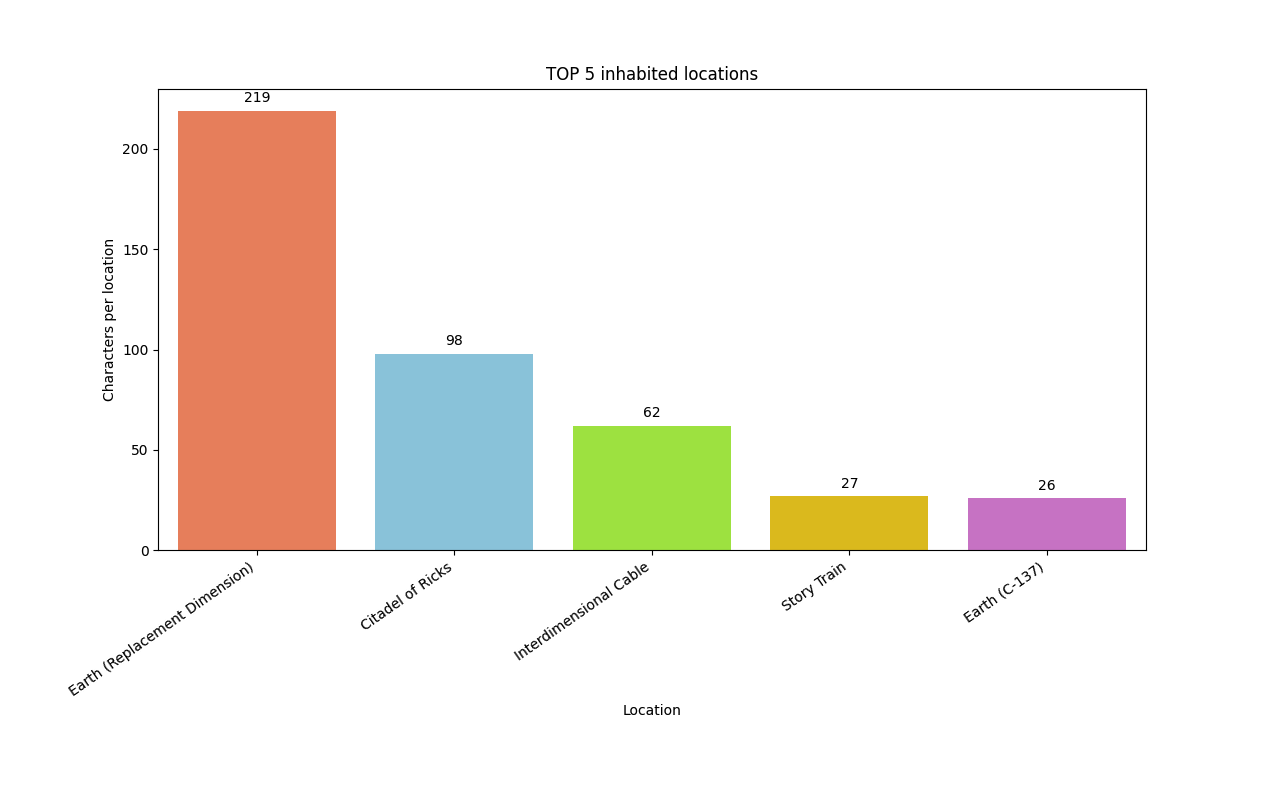
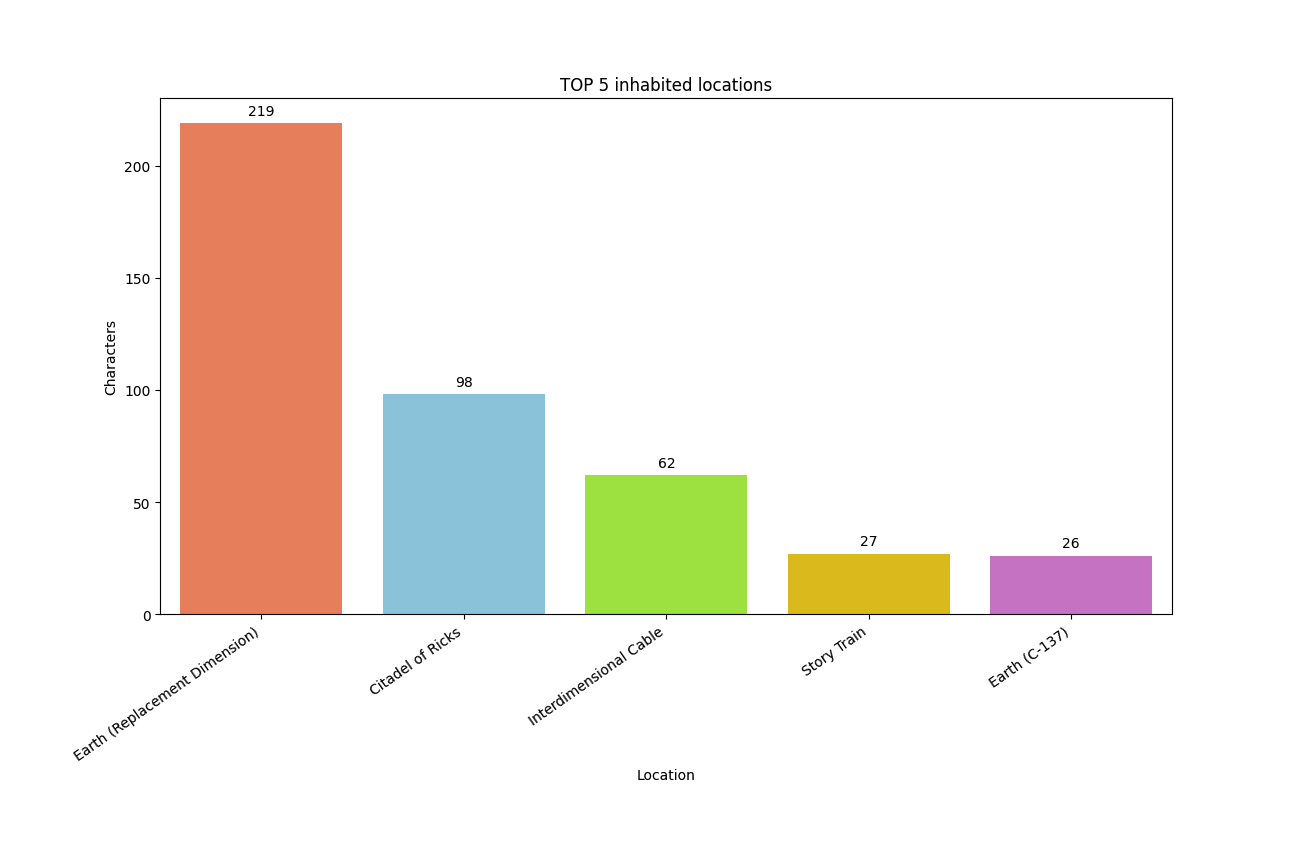
fix naming in visuals

diff --git a/scripts/DataOperations.py b/scripts/DataOperations.py
@@ -76,8 +76,8 @@ class DataOperations:
             .unique()
             .with_columns(pl.col('location').alias('Location'))
             .group_by('Location')
-            .agg(pl.count('name').alias('Characters per location'))
-            .sort('Characters per location', descending=True)
+            .agg(pl.count('name').alias('Characters'))
+            .sort('Characters', descending=True)
             .limit(5)
         )
 
@@ -99,7 +99,6 @@ class DataOperations:
         return (
             episodes
             .select(['episode', 'air_date'])
-            .unique()
             .with_columns(
                 pl.col('air_date')
                 .str.extract(r', (\d{4})', 1)
@@ -121,7 +120,6 @@ class DataOperations:
                            legend=False,
                            data=data,
                            palette=rick_and_morty_palette)
-
 
         for p in plot.patches:
             plot.annotate(format(p.get_height(), '.0f'),
@@ -153,6 +151,6 @@ class DataOperations:
         episodes_per_year.write_csv(f'{main_dir}/episodes_per_year.csv')
 
         self.draw_bar_plot('Name', 'Appearances in episodes', appearances_in_episodes, 'TOP 5 characters appearances')
-        self.draw_bar_plot('Location', 'Characters per location', characters_per_location, 'TOP 5 inhabited locations')
+        self.draw_bar_plot('Location', 'Characters', characters_per_location, 'TOP 5 inhabited locations')
         self.draw_bar_plot('Season', 'Characters', characters_per_season, 'Characters per season')
         self.draw_bar_plot('Year', 'Episodes', episodes_per_year, 'Episodes per year')
